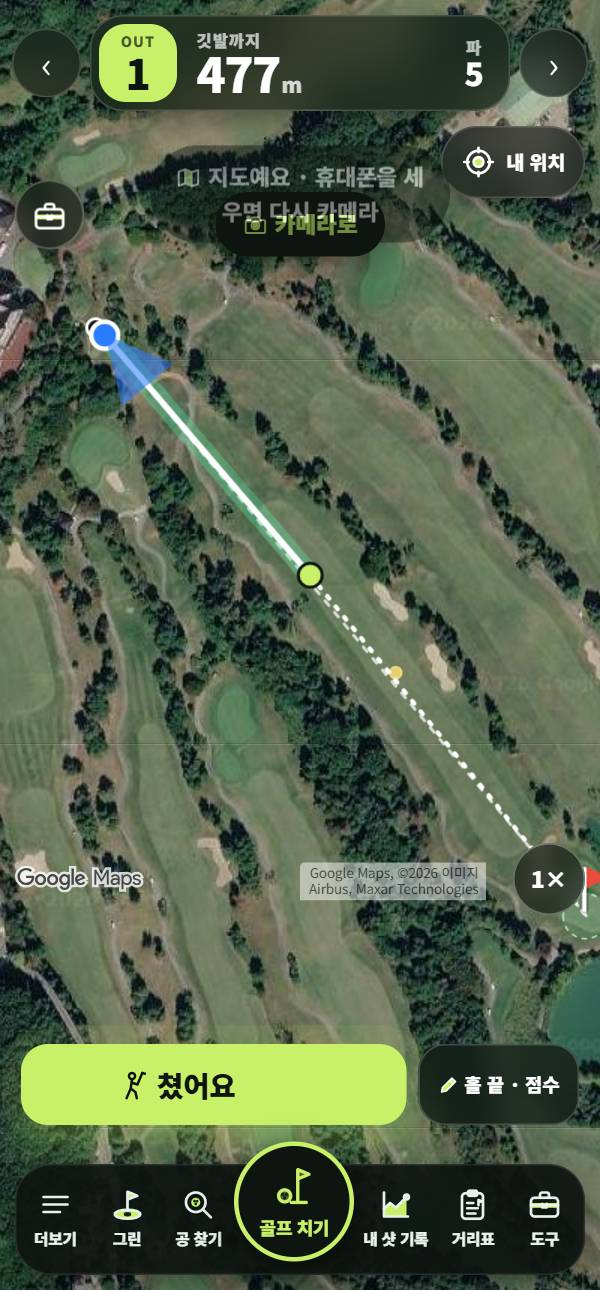
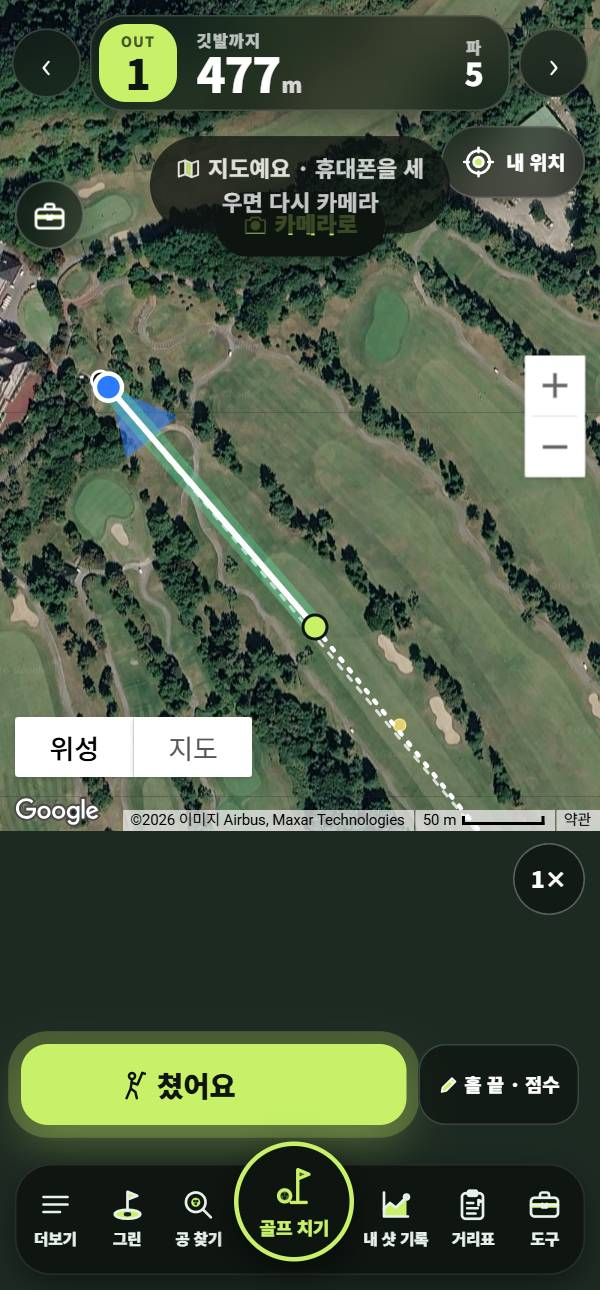
구글 지도 단추 배치(위성/지도 왼쪽 아래 · 골프 치기 지도 +/− 오른쪽 가운데) · 1× 단추가 구글 약관을 가리지 않게 지도 칸 조정 · 가이드 그림을 진짜 구글 지도로 다시 캡처

diff --git a/js/core/gleaflet.js b/js/core/gleaflet.js
@@ -76,11 +76,13 @@ export function makeGoogleL(google) {
       // 구글 지도는 안쪽 칸에: 아래를 덮는 판(--gm-cover)만큼 짧게 → 구글 로고·저작권이 판에 가려지지 않음
       //  화면 코드의 좌표(가운데·여백)는 Leaflet처럼 바깥 칸 전체 기준으로 맞춰 줌
       this._host = document.createElement('div'); this._host.className = 'gm-host'; el.appendChild(this._host);
+      // 단추 자리: 골퍼 앱은 위쪽에 앱 판(홀 정보·거리)이 있어서 [위성/지도]는 왼쪽 아래 · 골프 치기 지도는 1× 단추와 안 겹치게 +/−를 오른쪽 가운데로
+      const admin = !!el.closest('#aview'), imm = !!el.closest('.imm');
       this.gm = new g.Map(this._host, {
         center: { lat: 37.5, lng: 127 }, zoom: 17, mapTypeId: o.mapType || 'satellite', tilt: 0, heading: 0,
         gestureHandling: 'greedy', clickableIcons: false, keyboardShortcuts: false, maxZoom: o.maxZoom || 21, minZoom: 3,
-        disableDefaultUI: true, zoomControl: o.zoomControl !== false, zoomControlOptions: { position: g.ControlPosition.RIGHT_BOTTOM },
-        mapTypeControl: o.mapTypeControl !== false, mapTypeControlOptions: { style: g.MapTypeControlStyle.HORIZONTAL_BAR, position: g.ControlPosition.TOP_LEFT, mapTypeIds: ['satellite', 'hybrid', 'roadmap'] },
+        disableDefaultUI: true, zoomControl: o.zoomControl !== false, zoomControlOptions: { position: imm ? g.ControlPosition.RIGHT_CENTER : g.ControlPosition.RIGHT_BOTTOM },
+        mapTypeControl: o.mapTypeControl !== false, mapTypeControlOptions: { style: g.MapTypeControlStyle.HORIZONTAL_BAR, position: admin ? g.ControlPosition.TOP_LEFT : g.ControlPosition.LEFT_BOTTOM, mapTypeIds: ['satellite', 'hybrid', 'roadmap'] },
         scaleControl: true, isFractionalZoomEnabled: false, backgroundColor: '#1d2a22',
       });
       this.vec = new VectorPane(this);

diff --git a/css/play.css b/css/play.css
@@ -820,6 +820,6 @@ html.msheet-on .m-map .leaflet-top { top: max(env(safe-area-inset-top), var(--cu
 .gp-key .k1 { background: #58b4ff; } .gp-key .k2 { background: #ff9f43; } .gp-key .k3 { background: repeating-linear-gradient(90deg, #ffe066 0 5px, transparent 5px 8px); } .gp-key .k4 { background: repeating-linear-gradient(90deg, #58b4ff 0 5px, transparent 5px 8px); }
 
 /* 구글 지도: 판·메뉴가 덮는 만큼 지도 칸을 짧게 (Leaflet의 아래 단추 올리기와 같은 자리) */
-.imm .gmap-on { --gm-cover: 260px; }
+.imm .gmap-on { --gm-cover: 306px; } /* 1× 단추가 구글 약관·저작권을 가리지 않게 그 위에서 지도를 끝냄 */
 html.dist-on .mapwrap .gmap-on { --gm-cover: calc(var(--nav-h) + 6px + env(safe-area-inset-bottom)); }
 html.msheet-on .m-map .gmap-on, html.msheet-on .m-map.gmap-on { --gm-cover: calc(var(--m-sheet) + var(--nav-h) + env(safe-area-inset-bottom)); }

diff --git a/release-notes.md b/release-notes.md
@@ -1,2 +1,4 @@
 # 다음 APK 릴리스 노트 (한국어)
 # 사용자에게 보이는 변경 내용을 한 줄에 하나씩 '- '로 적으면 npm run release:apk가 씁니다. 릴리스 뒤 비워집니다.
+- 지도의 위성/지도 단추와 확대 단추가 앱 단추와 겹치지 않게 자리를 옮겼어요
+- 구글 로고·저작권·약관 표시가 가려지지 않아요
